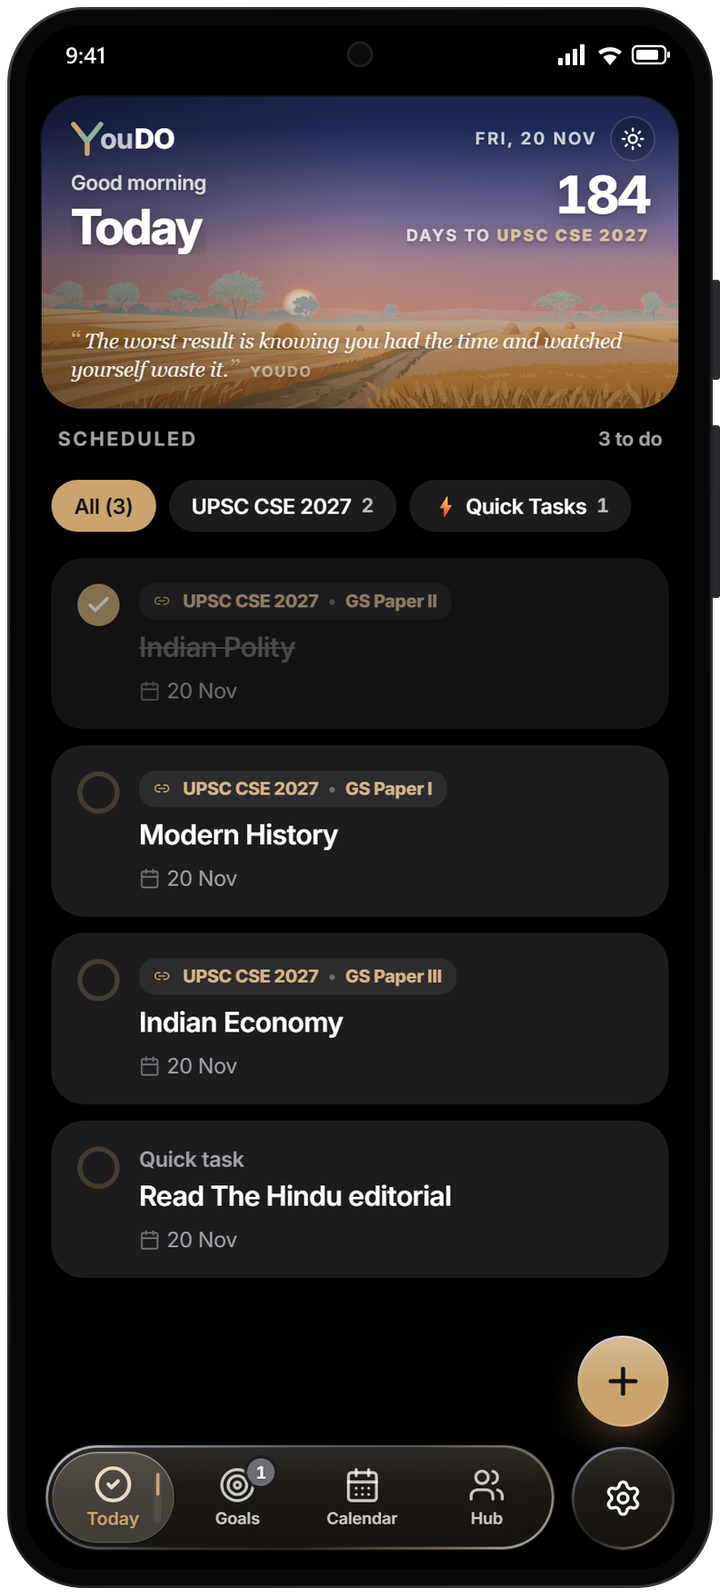
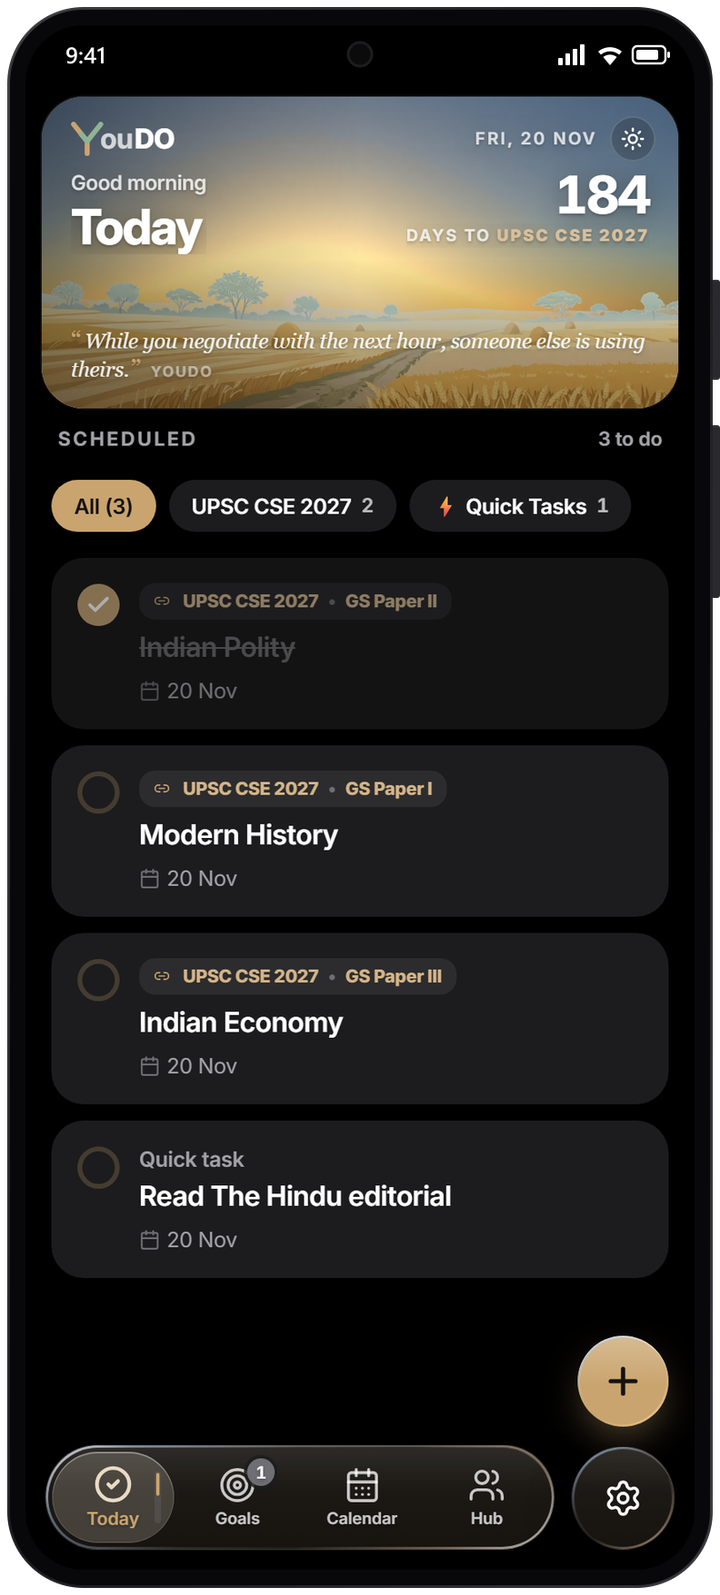
chore(release): v9.1.0 — skies that look real

Changed region(s): [[0.0611, 0.0614, 0.9472, 0.2458]]

diff --git a/src/lib/version.ts b/src/lib/version.ts
@@ -1,1 +1,1 @@
-export const APP_VERSION = '9.0.2';
+export const APP_VERSION = '9.1.0';

diff --git a/README.md b/README.md
@@ -31,7 +31,7 @@ UPSC, JEE, NEET, GATE, CAT, government exams, university entrances, and every se
 <img src="docs/screenshots/07-private-hub-chats.png" width="180" alt="Private Hub chats" />
 <img src="docs/screenshots/08-study-room.png" width="180" alt="A study room with live focus" />
 <img src="docs/screenshots/09-appearance.png" width="180" alt="Appearance: the three scenes and their colours, or a colour from your photo" />
-<img src="docs/screenshots/10-scenes.png" width="180" alt="The Western Ghats header on a monsoon afternoon" />
+<img src="docs/screenshots/10-scenes.png" width="180" alt="The Western Ghats header at sunset, its clouds lit orange" />
 <img src="docs/screenshots/11-focus-sky.png" width="180" alt="Focus Sky: the ambient timer under today's earned stars, a constellation and Saturn" />
 
 </div>
@@ -189,7 +189,7 @@ Set your own **profile photo** (moved and zoomed to fit, kept small), and Foundi
 
 v8 brings a new look: large titles, borderless cards and a floating **Liquid Glass** tab bar. In **Settings → Preferences** pick Dark or Light, a scene and its colour (Harvest fields with Sand, Himalaya with Slate, Western Ghats with Sage, or a colour taken from your own photo; the start screen, header, widgets and notifications follow it) and one of five app icons. **Classic Look** brings back the v7 design ([v7 screenshots](docs/screenshots/v7-classic)).
 
-Every tab opens with a **sky header**: an illustrated Indian landscape (the harvest fields, the Himalaya or the Western Ghats, the scene that goes with your colour) under a live sky that follows the real sun for your place (sunrise, noon and sunset from the date and your time zone or Indian state, with no location access), today's earned focus stars at night, a greeting, the countdown to your nearest goal deadline and the day's quote. Each scene starts the day with its own weather (sun on the fields, cloud over the Himalaya, monsoon rain in the Ghats); change it with the button beside the date, and tap the sun to replay today's sky from dawn to now. In **Settings → Appearance → Scene and colour** pick the scene (and its colour), where your sunrise and sunset are worked out for, and the weather button; or use your own photo as the header and take the app's colour from it.
+Every tab opens with a **sky header**: an illustrated Indian landscape (the harvest fields, the Himalaya or the Western Ghats, the scene that goes with your colour) under a live sky that follows the real sun for your place (sunrise, noon and sunset from the date and your time zone or Indian state, with no location access) and is worked out from real light, each scene with its own air: golden mornings and evenings over the fields, the bluest sky and sunlit peaks in the Himalaya, clouds lit gold and rose over the Ghats, today's earned focus stars at night, a greeting, the countdown to your nearest goal deadline and the day's quote. Each scene starts the day with its own weather (sun on the fields, cloud over the Himalaya, monsoon rain in the Ghats); change it with the button beside the date, and tap the sun to replay today's sky from dawn to now. In **Settings → Appearance → Scene and colour** pick the scene (and its colour), where your sunrise and sunset are worked out for, and the weather button; or use your own photo as the header and take the app's colour from it.
 
 ## Your data remains yours
 

diff --git a/CHANGELOG.md b/CHANGELOG.md
@@ -17,6 +17,17 @@ Guidance: keep 3–6 short, user-facing bullets. Group related small fixes under
 
 ---
 
+## [v9.1.0] - 2026-11-27 - Skies That Look Real
+
+- **A sky that looks real** — The header's sky now follows real light from dawn to night, and each scene has its own: golden mornings and evenings over the harvest fields, the bluest sky and sunlit peaks in the Himalaya, and clouds lit gold, orange and rose over the Western Ghats.
+- **Light on the land** — The land is lit by the same sky: the mountain tops catch the first and last light, far hills fade softly into the air, and everything dims gently after sunset.
+- **A cleaner Admin Hub** — Today, Inbox, People, Community and Owner in a simpler layout, with everyone's picture and real name, one back button that always goes one step back, and a list to choose people from when writing an email.
+- **Emails that read like letters** — Emails from YouDO now look like a personal letter, signed by whoever sent it.
+- **Smaller fixes** — Create account needs a real name (spaces alone no longer count), and the countdown stays easy to read on bright skies.
+- **Android APK** — versionName **9.1.0**, versionCode **104**. Installs over v9.0.2 (103).
+
+---
+
 ## [v9.0.2] - 2026-11-25 - True Previews, Lighter on the Server
 
 - **Email previews show the real email** — In the Admin Hub, an email's preview and a sent email's "See the email" now show exactly what a real person gets: their own name and amount, and your name on a note, never sample values.
